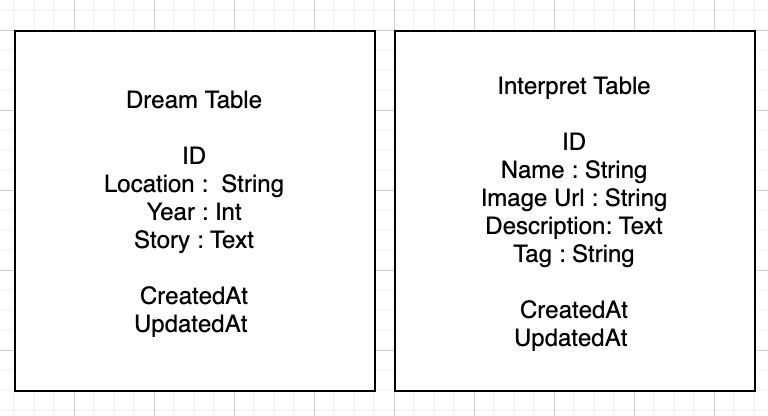
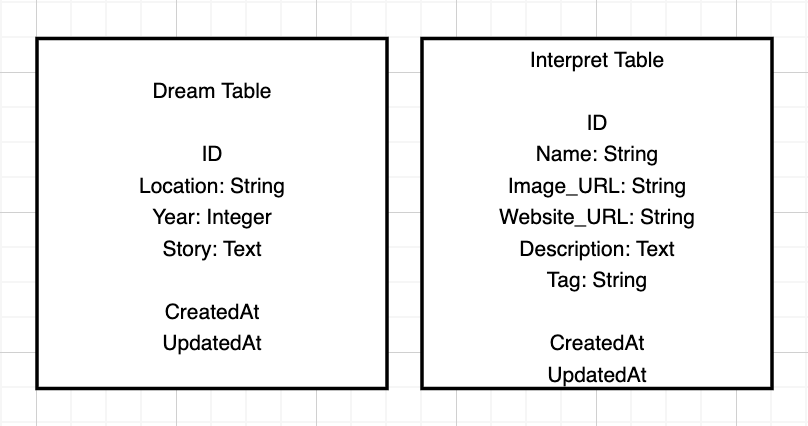
Added Seed data for all tables.  Confirmed on active record to read data.

diff --git a/db/seeds.rb b/db/seeds.rb
@@ -7,6 +7,22 @@
 #   Character.create(name: 'Luke', movie: movies.first)
 Dream.destroy_all
 Interpret.destroy_all
+
+#############################################
+#############################################
+################## Dreams ###################
+#############################################
+#############################################
+ dream1 = Dream.create(location: "Queens, NY", year: "2020", story: "Sometime in February, when I was at work, we were talking about the elections with my boss and one of the Caucasian lawyers that was there.  I asked both of them who they are interested in voting for and my boss wasn't sure yet but he said most likely Biden.  Then the lawyer said how he is actually endorsing Andrew Yang.  I then said, 'Oh yeah, the Asian guy.'  He makes a screwed up face like my response confused him.  He then says to me, 'Do you know how offensive that is? What if I said, 'Oh yeah that Black girl who works reception.'  I was confused and stunned by the statement he said to me because he said it as if I don't know I'm Black and I would be highly offended over someone saying that.  Two, since he is a white man, he wouldn't even know what it's like to walk in my shoes as a Black, young woman.  I was just shocked and disgusted by his comment.")
+
+ dream2 = Dream.create(location: "Queens, NY", year: "2020", story: "While I was looking for apartments, I went with my father and the landlord was a Jewish, white man.  He didn't even want to greet us when we came.  We had to wait for the realtor.  When the realtor showed us around, he just stood there and followed us carefully.  He has a dismissive demeanor and we had liked the place a lot and told the realtor we really wanted the apartment.  We contacted the realtor many times and never heard back.  My father said it right after we left he didn't think we were going to get the place.")
+
+ dream3 = Dream.create(location: "Brooklyn, NY", year: "2020", story: "I was once shopping in a department store in the makeup section and I was walking around the area looking for an item I wanted to purchase.  Suddenly, I noticed two of the white saleswomen following me around the area and looking at me suspiciously.  Normally a salesperson would ask a customer if they need help finding something or any assistance. But these sales women persisted in following me around and surveilling me and offered no help.  After recognizing this behavior, I asked them if there was an issue and if they wanted to help me instead of following me.  A few seconds later a white women walks into the smae makeup section as me and the same saleswomen flocked to the woman and asked if she needed any help.  In that moment, as a Black woman, I immediatley understood what took place.  After that I left the store because there's absolutely no reason for me to remain in a space where I am being watched and surveilled as if I was a theif and I would never spend my money in a place where I am treated as so.")
+
+ dream4 = Dream.create(location: "Queens, NY", year: "2010", story: "Growing up in a predominantly Jewish neighborhood, I face discrimination at a very young age.  I had alot of friends growing up who were Jewish and around 10/11 years old, I know we looked different but I ddidn't think it mattered.  Until one day, there was this new spod around our neighborhood called the Bukharian Teen Lounge.  Contrary to its name, this basement lounge funded by the community focused directly on Bukharian Jews and was open to the public.  Just not for Blacks, I remember being with all my Jewish/White friends and they all decided to go to the lounge.  They all just looked at me with this awkward start yelling, 'So where are you heading?'  This happened all Summer 2010.  The I knew.  I was different.  I didn't feel equal and at 10/11 years old, I came face to face that I will be treated differently for the rest of my life because of the color of my skin.")
+
+ p "#{Dream.count} dream(s) out of 4 dreams created"
+
 #############################################
 #############################################
 ############# Interpret - Food ##############
@@ -89,9 +105,9 @@ blackGirlsCode = Interpret.create(name: "Black Girls Code", image_url: "https://
 
 johnsonBatteryTechnologies = Interpret.create(name: "Johnson Battery Technologies", image_url: "https://i.imgur.com/mqM96JL.png", website_url: "https://www.johnsonbatterytech.com/", description: "Engineer and serial inventor Lonnie Johnson once disrupted summer vacations and pool parties forever when he invented the Super Soaker. But these days he has his sights set on a more ambitious goal. His newest company, Johnson Battery Technologies (JBT), is developing ceramic, solid-state battery technology designed to outperform lithium-ion batteries in terms of size, capacity, and lifespan. JBT says its batteries are also safer than lithium-ion due to the use of glass electrolytes instead of liquid electrolytes and are able to withstand temperatures up to 300 degrees Fahrenheit . JBT is currently engaging companies in the oil and gas, automotive, and medical device industries to bring products utilizing its battery technology to market. -Design News", tag: "Tech")
 
-devColor= Interpret.create(name: "/dev/color", image_url: "https://i.imgur.com/AzEwpMV.png", website_url: "https://www.devcolor.org/", description: "Black software engineers have historically faced challenges in reaching their full potential. We ensure Black engineers fulfill the promise of their talents, transform the industry, and use their resulting skills and position to give back to their communities.", tag: "Tech")
+devColor = Interpret.create(name: "/dev/color", image_url: "https://i.imgur.com/AzEwpMV.png", website_url: "https://www.devcolor.org/", description: "Black software engineers have historically faced challenges in reaching their full potential. We ensure Black engineers fulfill the promise of their talents, transform the industry, and use their resulting skills and position to give back to their communities.", tag: "Tech")
 
-code2040= Interpret.create(name: "Code2040", image_url: "https://i.imgur.com/Bb5U99r.png", website_url: "http://www.code2040.org/", description: "Our mission is to activate, connect, and mobilize the largest racial equity community in tech to dismantle the structural barriers that prevent the full participation and leadership of Black and Latinx people in the innovation economy.", tag: "Tech")
+code2040 = Interpret.create(name: "Code2040", image_url: "https://i.imgur.com/Bb5U99r.png", website_url: "http://www.code2040.org/", description: "Our mission is to activate, connect, and mobilize the largest racial equity community in tech to dismantle the structural barriers that prevent the full participation and leadership of Black and Latinx people in the innovation economy.", tag: "Tech")
 
 blackFemalFoundersEmpire = Interpret.create(name: "Black Female Founders Empire", image_url: "https://i.imgur.com/nPQL7Jj.png", website_url: "https://www.blackfemalefounders.org/", description: "Our mission is to provide awareness, promotion, support and resources for Black women led tech-based* and tech-enabled* startups throughout the U.S. and Black Diaspora.", tag: "")
 
@@ -172,11 +188,11 @@ thirteenth = Interpret.create(name: "13th, 2016", image_url: "https://i.imgur.co
 
 americanSon = Interpret.create(name: "American Son, 2019", image_url: "https://i.imgur.com/FK9UYwT.jpg", website_url: "https://www.netflix.com/title/81024100", description: "Time passes and tension mounts in a Florida police station as an estranged interracial couple awaits news of their missing teenage son.", tag: "Movies")
 
-dearWhitePeople = Interpret.create(name: "Dear White People, 2017", image_url: "https://i.imgur.com/uZnQCf6.jpg", website_url: "https://www.netflix.com/title/80095698", description: "Students of color navigate the daily slights and slippery politics of life at an Ivy League college that's not nearly as "post-racial" as it thinks.", tag: "Movies")
+dearWhitePeople = Interpret.create(name: "Dear White People, 2017", image_url: "https://i.imgur.com/uZnQCf6.jpg", website_url: "https://www.netflix.com/title/80095698", description: "Students of color navigate the daily slights and slippery politics of life at an Ivy League college that's not nearly as 'post-racial' as it thinks.", tag: "Movies")
 
 seeYouYesterday = Interpret.create(name: "See You Yesterday, 2019", image_url: "https://i.imgur.com/K2OzSQl.jpg", website_url: "https://www.netflix.com/title/80216758", description: "As two teen prodigies try to master the art of time travel, a tragic police shooting sends them on a series of dangerous trips to the past.", tag: "Movies")
 
-= Interpret.create(name: "The Help, 2011", image_url: "https://i.imgur.com/Sxss92i.jpg", website_url: "https://www.imdb.com/title/tt1454029/", description: "An aspiring author during the civil rights movement of the 1960s decides to write a book detailing the African American maids' point of view on the white families for which they work, and the hardships they go through on a daily basis. -IMDB", tag: "Movies")
+theHelp = Interpret.create(name: "The Help, 2011", image_url: "https://i.imgur.com/Sxss92i.jpg", website_url: "https://www.imdb.com/title/tt1454029/", description: "An aspiring author during the civil rights movement of the 1960s decides to write a book detailing the African American maids' point of view on the white families for which they work, and the hardships they go through on a daily basis. -IMDB", tag: "Movies")
 
 getOut = Interpret.create(name: "Get Out, 2017", image_url: "https://i.imgur.com/CgtGp5Q.jpg", website_url: "https://www.imdb.com/title/tt5052448/", description: "A young African-American visits his white girlfriend's parents for the weekend, where his simmering uneasiness about their reception of him eventually reaches a boiling point. -IMDB", tag: "Movies")
 
@@ -194,12 +210,15 @@ theColorPurple = Interpret.create(name: "The Color Purple, 1985", image_url: "ht
 
 blackPanter = Interpret.create(name: "Black Panter, 2018", image_url: "https://i.imgur.com/tFVsqTS.jpg", website_url: "https://www.imdb.com/title/tt1825683/", description: "T'Challa, heir to the hidden but advanced kingdom of Wakanda, must step forward to lead his people into a new future and must confront a challenger from his country's past. -IMDB", tag: "Movies")
 
+selma = Interpret.create(name: "Selma, 2014", image_url: "https://i.imgur.com/nPRnrBu.jpg", website_url: "https://www.imdb.com/title/tt1020072/", description: "A chronicle of Dr. Martin Luther King, Jr.'s campaign to secure equal voting rights via an epic march from Selma to Montgomery, Alabama, in 1965. -IMDB", tag: "Movies")
 
-p "#{Interpret.count} interpret(s) out of 13 movies created"
+justMercy = Interpret.create(name: "Just Mercy, 2019", image_url: "https://i.imgur.com/tULiUmn.jpg", website_url: "https://www.justmercyfilm.com/", description: "Just Mercy is based on the powerful and thought-provoking true story of young lawyer Bryan Stevenson and his history-making battle for justice. After graduating from Harvard, Bryan had his pick of lucrative jobs. Instead, he heads to Alabama to defend those wrongly condemned or who were not afforded proper representation, with the support of local advocate Eva Ansley. One of his first, and most incendiary, cases is that of Walter McMillian, who, in 1987, was sentenced to die for the notorious murder of an 18-year-old girl, despite a preponderance of evidence proving his innocence and the fact that the main testimony against him came from a criminal with a motive to lie. In the years that follow, Bryan becomes embroiled in a labyrinth of legal and political maneuverings, as well as overt and unabashed racism as he fights for Walter, and others like him, with the odds—and the system—stacked against them.", tag: "Movies")
 
-p "#{Interpret.count} interpret(s) out of 64 total created"
-# Food/Beauty/Podcasts/Fashion/Tech/Media: Story, Mission Statement and/or About descriptions, taken directly from company’s website.
+p "#{Interpret.count} interpret(s) out of 15 movies created"
 
-
+p "#{Interpret.count} interpret(s) out of 66 total created"
+# Food/Beauty/Podcasts/Fashion/Tech/Media: Story, Mission Statement and/or About descriptions, taken directly from company’s website unless otherwise noted.
 # Books: Descriptions taken directly from Author's website unless otherwise noted.
+
 # = Interpret.create(name: "", image_url: "", website_url: "", description: "", tag: "")
+# = Dream.create(location: "", year: "", story: "")

diff --git a/config/initializers/cors.rb b/config/initializers/cors.rb
@@ -5,12 +5,12 @@
 
 # Read more: https://github.com/cyu/rack-cors
 
-# Rails.application.config.middleware.insert_before 0, Rack::Cors do
-#   allow do
-#     origins 'example.com'
-#
-#     resource '*',
-#       headers: :any,
-#       methods: [:get, :post, :put, :patch, :delete, :options, :head]
-#   end
-# end
+Rails.application.config.middleware.insert_before 0, Rack::Cors do
+  allow do
+    origins '*'
+
+    resource '*',
+      headers: :any,
+      methods: [:get, :post, :put, :patch, :delete, :options, :head]
+  end
+end
